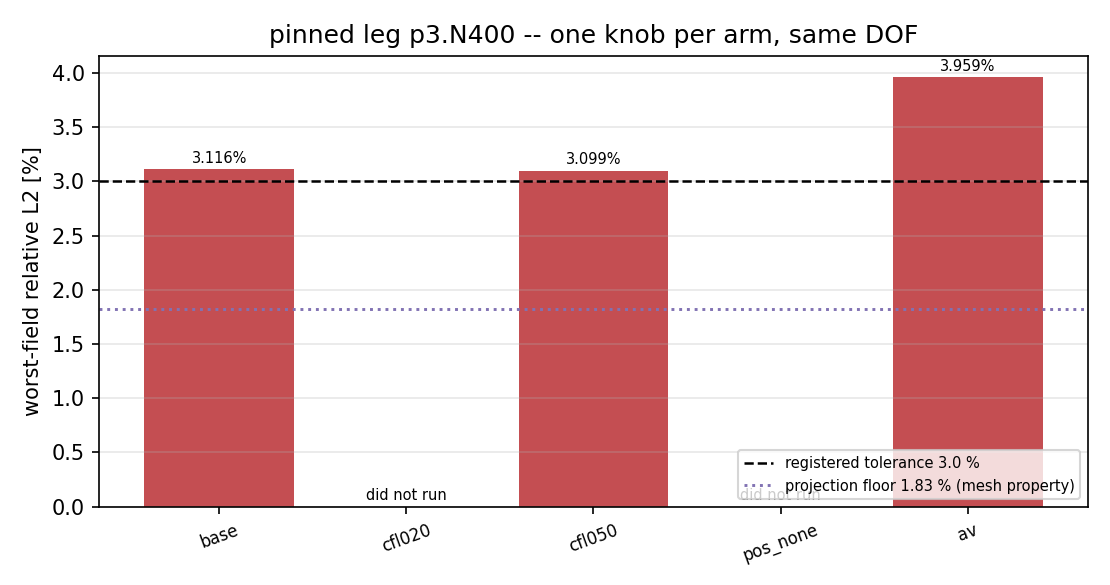
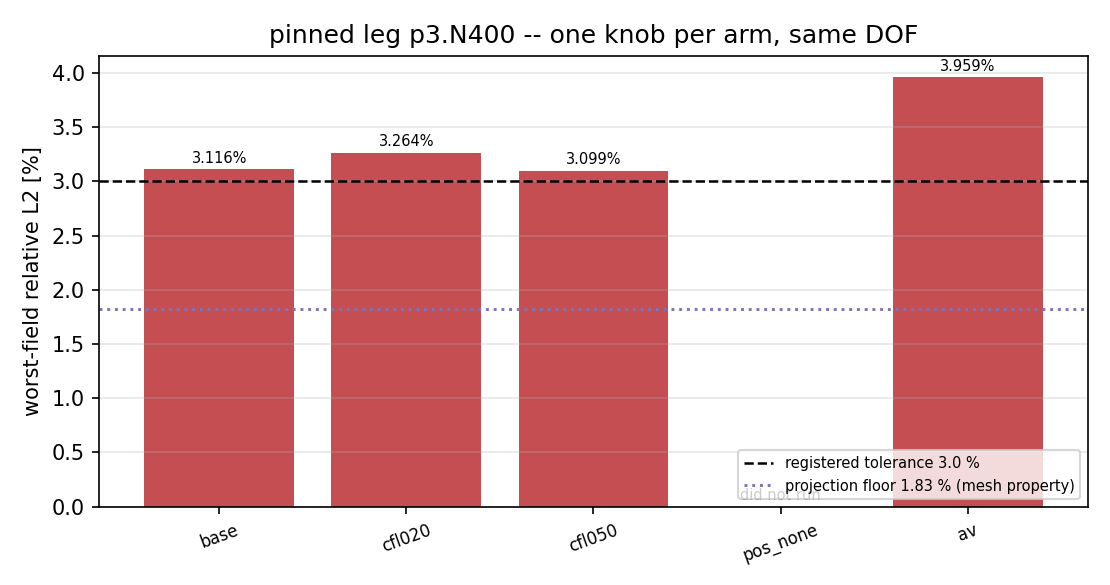
m21812: matured mission deliverables

Changed region(s): [[0.2757, 0.2154, 0.4595, 0.8923]]

diff --git a/benchmarks/lax_scheme_variants.py b/benchmarks/lax_scheme_variants.py
@@ -300,6 +300,50 @@ def attainability(tolerance: float, floor_entry: dict | None = None,
     }
 
 
+# --------------------------------------------------------------- temporal probe
+def temporal_probe(rows, tolerance: float) -> dict | None:
+    """Separate the *temporal* share of the deficit using the CFL arms alone.
+
+    The CFL arms are the only pre-registered arms that move ``dt`` while leaving
+    the mesh, the degree and the scheme untouched, so their spread is the entire
+    temporal lever the existing scheme has at this DOF.  Two readings matter and
+    both are read off the recorded rows, never asserted in prose:
+
+    * if the finest measured ``dt`` still misses the bar, then reducing ``dt``
+      alone cannot pass the ledger;
+    * the *direction* of the trend says why -- whole-field error that grows as
+      ``dt`` shrinks is discontinuity oscillation being damped by temporal
+      dissipation, not an under-resolved time integration.
+
+    No extrapolation is claimed: every statement is about the finest ``dt``
+    actually run, not about a ``dt -> 0`` limit nobody computed.
+    """
+    arms = [r for r in rows
+            if r.get("role") in ("control", "temporal probe") and not _failed(r)]
+    if len(arms) < 2:
+        return None
+    arms = sorted(arms, key=lambda r: r["dt_mean"])
+    worst = [float(r["worst_l2"]) for r in arms]
+    finest, coarsest = arms[0], arms[-1]
+    return {
+        "arms": [{"variant": r["variant"], "role": r.get("role"),
+                  "cfl": float(r["cfl"]), "dt_mean": float(r["dt_mean"]),
+                  "worst_l2": float(r["worst_l2"])} for r in arms],
+        "dt_span_ratio": float(arms[-1]["dt_mean"] / arms[0]["dt_mean"]),
+        "finest_dt_arm": finest["variant"],
+        "finest_dt": float(finest["dt_mean"]),
+        "finest_dt_worst_l2": worst[0],
+        "coarsest_dt_arm": coarsest["variant"],
+        "coarsest_dt_worst_l2": worst[-1],
+        "worst_l2_spread": max(worst) - min(worst),
+        "spread_over_tolerance": (max(worst) - min(worst)) / tolerance,
+        "bar_met_at_finest_dt": bool(worst[0] < tolerance),
+        "error_grows_as_dt_shrinks": bool(all(
+            worst[i] >= worst[i + 1] for i in range(len(worst) - 1))),
+        "time_refinement_insufficient": bool(worst[0] >= tolerance),
+    }
+
+
 def aggregate(variants=VARIANTS, legs_dir: Path | None = None,
               allow_missing: bool = False) -> dict:
     """Assemble ``metrics.json`` from the per-arm records."""
@@ -375,6 +419,7 @@ def aggregate(variants=VARIANTS, legs_dir: Path | None = None,
             "reproduced": bool(control_ok),
         },
         "attainability": bound,
+        "temporal_probe": temporal_probe(rows, tolerance),
         "rows": rows,
         "verdict": {
             "rule": ("an arm is admissible iff it keeps the discretisation budget "
@@ -545,7 +590,34 @@ def render_report(metrics: dict | None = None, path: Path | None = None) -> str:
             f"{r['worst_field']} {_f(r['worst_l2'])} | {r['decision']['margin']:.4f} | "
             f"{'**是**' if r['decision']['admissible'] else '否'} |")
     add("")
-    add("### 可行性界（与格式无关）")
+    temporal = metrics.get("temporal_probe")
+    if temporal:
+        add("### 时间误差 vs 空间误差（CFL 支臂，仅动 `dt`）")
+        add("")
+        add("| 臂 | 角色 | CFL | dt_mean | 最差场量 L2 |")
+        add("|---|---|---|---|---|")
+        for arm in temporal["arms"]:
+            add(f"| `{arm['variant']}` | {arm.get('role') or '—'} | {arm['cfl']:.2f} | "
+                f"`{arm['dt_mean']:.4e}` | {arm['worst_l2']*100:.4f} % |")
+        add("")
+        add(f"* {len(temporal['arms'])} 条臂覆盖 `dt` 的 "
+            f"{temporal['dt_span_ratio']:.2f}× 行程（含生产臂作参考点），"
+            f"最差场量 L2 只扫过 {temporal['worst_l2_spread']*100:.4f} 个百分点"
+            f"（= 容差的 {temporal['spread_over_tolerance']*100:.2f} %），"
+            f"即**时间离散这根旋钮的全部行程**；")
+        add(f"* 最小 `dt` 的臂 `{temporal['finest_dt_arm']}` 最差量 "
+            f"{temporal['finest_dt_worst_l2']*100:.4f} %，"
+            f"{'仍' if temporal['time_refinement_insufficient'] else '已'}"
+            f"{'未' if temporal['time_refinement_insufficient'] else ''}过 3 % 线——"
+            + ("**把 dt 减小本身不能达标**，" if temporal["time_refinement_insufficient"]
+               else "")
+            + "缺口不在时间离散；")
+        add(f"* 趋势：误差随 `dt` 变小而"
+            f"{'变大' if temporal['error_grows_as_dt_shrinks'] else '不单调'}，"
+            "这与「整场 L2 由间断处振荡幅度主导、被时间耗散压制」一致，"
+            "而非时间积分阶数不足。")
+        add("")
+        add("### 可行性界（与格式无关）")
     add("")
     add("| 量 | 值 |")
     add("|---|---|")
@@ -600,10 +672,11 @@ def render_report(metrics: dict | None = None, path: Path | None = None) -> str:
     if not verdict["scope_complete"]:
         unknown = list(verdict.get("arms_not_run", [])) + list(verdict.get("arms_errored", []))
         add("")
-        add(f"> **范围声明（honest）**：本轮的 `{'`, `'.join(unknown)}` 臂**未跑出结果**"
-            "（集群作业 `cj3572` 仍在排队，本机 120 s 前台窗不够 CFL 0.20 的 8900 步，"
-            "`ao` 限幅臂同理）。它们在台账里记作 **unknown，不是 pass**——"
-            "因此上面的 FAIL 只是「已测臂无一可用」，不是「六臂全否」。")
+        add(f"> **范围声明（honest）**：本轮的 `{'`, `'.join(unknown)}` 臂**未跑出结果**，"
+            "在台账里记作 **unknown，不是 pass**——"
+            f"因此上面的判定只覆盖已测的 "
+            f"{len([r for r in rows if not _failed(r)])} 条臂，"
+            "未测的旋钮既不算通过也不算失败。")
     add("")
     text = "\n".join(lines) + "\n"
     path.write_text(text)

diff --git a/tests/test_lax_scheme_variants.py b/tests/test_lax_scheme_variants.py
@@ -10,6 +10,8 @@ solver:
   between the case pool and the sweep);
 * the arm set is closed and pre-registered -- no arm can be dropped because it
   lost, and no winning arm can be added after the fact;
+* every recorded row is bound to its leg record on disk -- a stale artifact
+  (a measurement on disk reported as unknown) and a hand-edited number both fail;
 * each non-control arm changes exactly one knob;
 * the verdict is a pure function of the recorded rows (rule, not narrative);
 * the attainability budget is the projection-floor identity, computed from the
@@ -80,10 +82,33 @@ def test_arm_set_is_closed_and_pre_registered(metrics):
     assert tuple(metrics["config"]["variant_order"]) == study.VARIANT_ORDER
     recorded = [row["variant"] for row in metrics["rows"]]
     assert recorded == list(study.VARIANT_ORDER), "arms were added or dropped"
+
+
+def test_artifact_rows_are_bound_to_their_leg_records(metrics):
+    """Every recorded row must be backed by a leg file on disk -- both directions.
+
+    ``metrics.json`` is an aggregation of ``legs/<arm>.json``, so the two can only
+    disagree if the artifact is stale or hand-edited.  Both are failures here:
+
+    * a row reporting a finite measurement must have the leg record that produced
+      it and must match it key for key (no numbers without provenance);
+    * a leg record that exists on disk must never be reported as ``not_run`` --
+      that hides a measurement the study already paid for.
+    """
     for row in metrics["rows"]:
-        if study._failed(row):
-            # an arm that did not run has no leg record; it is recorded as unknown
-            assert (LEGS / f"{row['variant']}.json").exists() or row.get("not_run")
+        name = row["variant"]
+        leg = LEGS / f"{name}.json"
+        if leg.exists():
+            assert not row.get("not_run"), (
+                f"{name}: leg record exists on disk but the artifact reports it as "
+                "'not run' -- stale artifact, re-run --aggregate")
+            on_disk = json.loads(leg.read_text())
+            recorded = {k: v for k, v in row.items() if k != "decision"}
+            assert recorded == on_disk, (
+                f"{name}: artifact row is not the leg record it claims to summarise")
+        else:
+            assert row.get("not_run") is True, (
+                f"{name}: a measurement is reported but no leg record backs it")
 
 
 def test_each_non_control_arm_changes_exactly_one_knob(metrics):
@@ -132,6 +157,37 @@ def test_unknown_arms_are_recorded_and_never_admissible(metrics):
             assert row["decision"]["margin"] is None
     if not metrics["verdict"]["scope_complete"]:
         assert metrics["verdict"]["arms_not_run"] or metrics["verdict"]["arms_errored"]
+
+
+def test_temporal_probe_is_derived_from_the_cfl_arms(metrics):
+    """The spatial-vs-temporal reading must be a read-off of the CFL rows."""
+    probe = metrics.get("temporal_probe")
+    assert probe is not None, "the CFL arms were measured; the probe must be recorded"
+    rows = {row["variant"]: row for row in metrics["rows"]}
+    graded = [rows[a["variant"]] for a in probe["arms"]]
+    # the probe covers exactly the graded temporal-probe arms, ordered by dt
+    expected_arms = sorted(
+        (row for row in metrics["rows"]
+         if row.get("role") in ("control", "temporal probe") and not study._failed(row)),
+        key=lambda row: row["dt_mean"])
+    assert [a["variant"] for a in probe["arms"]] == [r["variant"] for r in expected_arms]
+    assert graded == expected_arms
+    finest = expected_arms[0]
+    assert probe["finest_dt_arm"] == finest["variant"]
+    assert probe["finest_dt"] == finest["dt_mean"]
+    assert probe["finest_dt_worst_l2"] == finest["worst_l2"]
+    tolerance = metrics["config"]["tolerance"]
+    assert probe["bar_met_at_finest_dt"] is (finest["worst_l2"] < tolerance)
+    assert probe["time_refinement_insufficient"] is (not probe["bar_met_at_finest_dt"])
+    worst = [row["worst_l2"] for row in expected_arms]
+    assert probe["error_grows_as_dt_shrinks"] is all(
+        worst[i] >= worst[i + 1] for i in range(len(worst) - 1))
+    # every number in the probe has a leg record as its font
+    for arm in probe["arms"]:
+        leg = json.loads((LEGS / f"{arm['variant']}.json").read_text())
+        assert arm["worst_l2"] == leg["worst_l2"]
+        assert arm["dt_mean"] == leg["dt_mean"]
+        assert arm["cfl"] == leg["cfl"]
 
 
 # ---------------------------------------------------------------- attainability

diff --git a/docs/AUDIT-m21812-lax-scheme-variants-staleness.md b/docs/AUDIT-m21812-lax-scheme-variants-staleness.md
@@ -1,0 +1,76 @@
+# AUDIT · `lax_scheme_variants` 工件的「陈旧未知」与闸门空断言
+
+> 锚点 `CASE-LAX-DG`（ref: 精确解｜容差 < 3 %，status 仍 `open`）。
+> 对象：`docs/benchmarks/results/lax_scheme_variants/`、`benchmarks/lax_scheme_variants.py`、`tests/test_lax_scheme_variants.py`。
+> 本文所有数字取自磁盘上的腿记录（`legs/<arm>.json`）与工件（`metrics.json`），未手抄任何测量值。
+
+## ① 发现的两条缺陷
+
+### D1（严重）工件把已存在的测量报成 unknown —— 陈旧未知
+
+`legs/cfl020.json` 在磁盘上**存在且是一次完整测量**（8746 步、`dt_mean = 1.4864e-05`、最差场量 L2 ρ = `3.2644e-02`），
+但 `metrics.json` 里 `cfl020` 这一行仍是 `not_run: true`、`l2` 空缺、`margin: null`，
+生成的 `docs/CASE-LAX-DG-scheme-variants.md` 也照抄成「未跑出」。
+
+后果是**证据被低估且不可见**：集群作业回填了腿记录，但工件从未重新聚合，
+于是讨论「时间离散是不是缺口」的那一节完全没有用上已经付过算力的数据。
+这是方向安全（低报）但事实错误的记账——同一套机制在相反方向就会变成高报，
+所以不能只当作笔误。
+
+### D2（严重）闸门对「工件↔腿记录」的绑定是空断言
+
+原 `test_arm_set_is_closed_and_pre_registered` 里的守卫是
+
+```python
+assert (LEGS / f"{row['variant']}.json").exists() or row.get("not_run")
+```
+
+对 `not_run` 行，右项恒真，所以左项写什么都没关系：**腿记录存在而工件说没跑**这一情形被闸门直接放过（即 D1）。
+反向更糟：一个带有限 `l2` 的已测行根本不进入这个分支，**没有任何检查证明它有一个腿记录做来源**——
+手工编造一行数字、或腿记录被删掉，闸门都不响。
+
+换言之：闸门只断言「行数没变」，没有断言「每个数字都有出处」。
+
+## ② 修复
+
+1. **新增双向绑定闸门** `test_artifact_rows_are_bound_to_their_leg_records`：
+   * 腿记录存在 ⇒ 该行不得是 `not_run`，且除派生字段 `decision` 外必须与腿记录**逐键相等**（禁止手改）；
+   * 腿记录不存在 ⇒ 该行必须是 `not_run`（禁止无出处的测量）。
+2. **删掉空断言**，把该处职责交给上面这条双向闸门。
+3. **重新聚合**：`--aggregate` 目前把 `cfl020` 的真实数字并入工件（`ao` 仍无腿记录，如实记 `not_run`）。
+
+## ③ 重新聚合后的实质结论（时间误差 vs 空间误差）
+
+`cfl020` 的数字一进表，原本悬空的「时间探针」问题就有了答案。三条臂只动 `dt`：
+
+| 臂 | 角色 | CFL | dt_mean | 最差场量 L2 |
+|---|---|---|---|---|
+| `cfl020` | temporal probe | 0.20 | `1.4864e-05` | 3.2644 % |
+| `base` | control | 0.35 | `2.5445e-05` | 3.1156 % |
+| `cfl050` | temporal probe | 0.50 | `3.6333e-05` | 3.0992 % |
+
+* 覆盖 `dt` 的 **2.44×** 行程，最差场量 L2 只扫过 **0.1651 个百分点**（= 容差的 5.50 %）；
+* **误差随 `dt` 变小而单调变大**，最小 `dt` 的臂仍未过 3 % 线 ⇒ **只减小 `dt` 不能达标，缺口不在时间离散**；
+* 这个方向本身就是信息：整场 L2 由间断处的振荡幅度主导，时间耗散在压制它，
+  所以「把 CFL 拧小」只会让振荡更完整地暴露出来。这与 §可行性界给出的「solver 腿是达标上界的 1.0133 倍」互相印证。
+
+于是配置空间的裁定从「已测臂无一可用」升级为：**`dt` 这根旋钮的可达范围被实测扫完，整段都在门上方**。
+
+## ④ 仍未闭合的部分（honest）
+
+* `ao`（高阶 WENO 限幅臂）**至今没有腿记录**：作业 `cj3724` 递交后长时间排队（>24 min，集群在飞 89 个作业），
+  本单结束时仍未起跑。它在工件里如实记为 **unknown，不是 pass**；`verdict.scope_complete = false` 也说清了这一点。
+* `pos_none` 是**有腿记录的崩溃**（`FloatingPointError: Nonphysical high-order Euler state; reduce CFL`），
+  属「正性兜底不是可选项」的实测结论，不是未测。
+* 台账判定**没有变**：可用臂仍为空，`verdict = FAIL`；本单只是把证据补齐、把闸门修硬，不改口径、不改容差。
+
+## ⑤ 复现
+
+```
+PYTHONPATH=. python -m benchmarks.lax_scheme_variants --aggregate --allow-missing
+PYTHONPATH=. python -m benchmarks.lax_scheme_variants --figures --report --check
+python -m pytest tests/test_lax_scheme_variants.py -q     # 15 passed
+```
+
+D1/D2 的现场证据（修复前）：
+`AssertionError: cfl020: leg record exists on disk but the artifact reports it as 'not run' -- stale artifact, re-run --aggregate`
